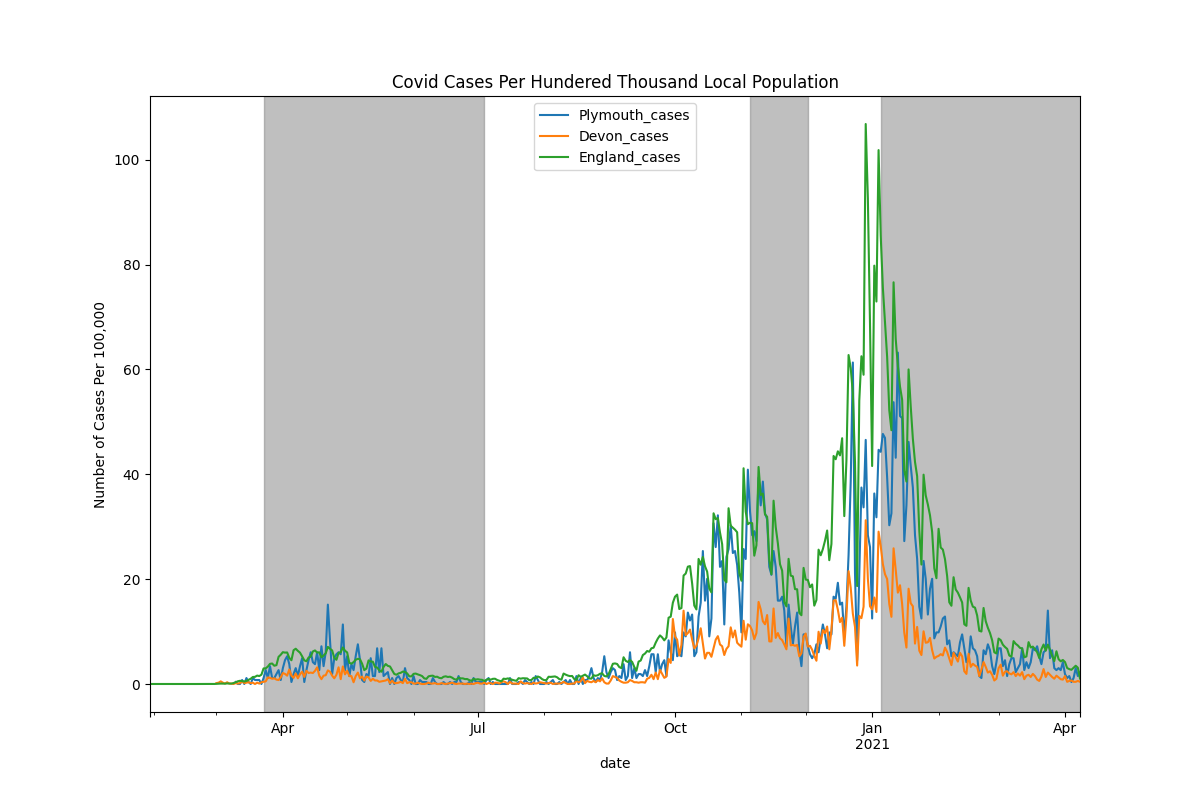
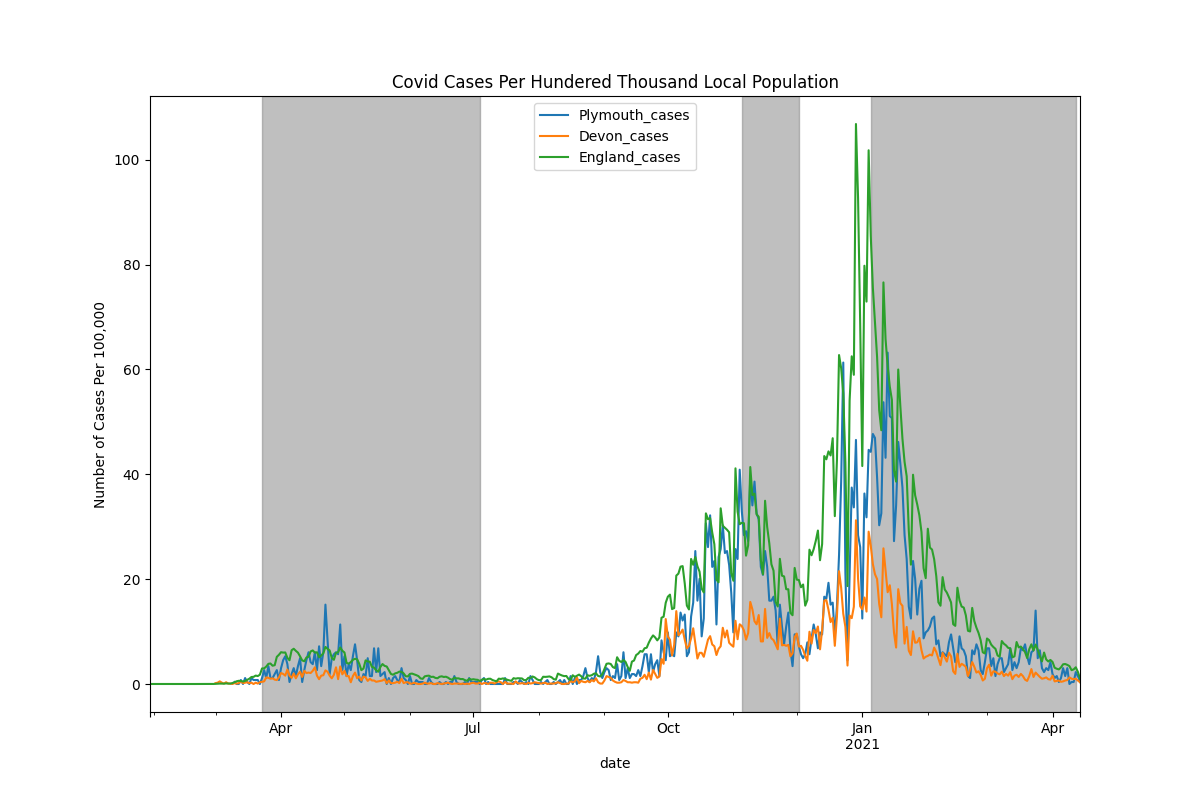
update-data

diff --git a/index.md b/index.md
@@ -7,4 +7,4 @@ Grey sections are used to identify national lockdowns, of various strengths.
 ![Covid Rates Per 100000](images/plymouth_covid_graph_pht.png "Plymouth Covid Graph Per 100000 ")
 
 
-Last updated on: 09 April 2021
+Last updated on: 16 April 2021
